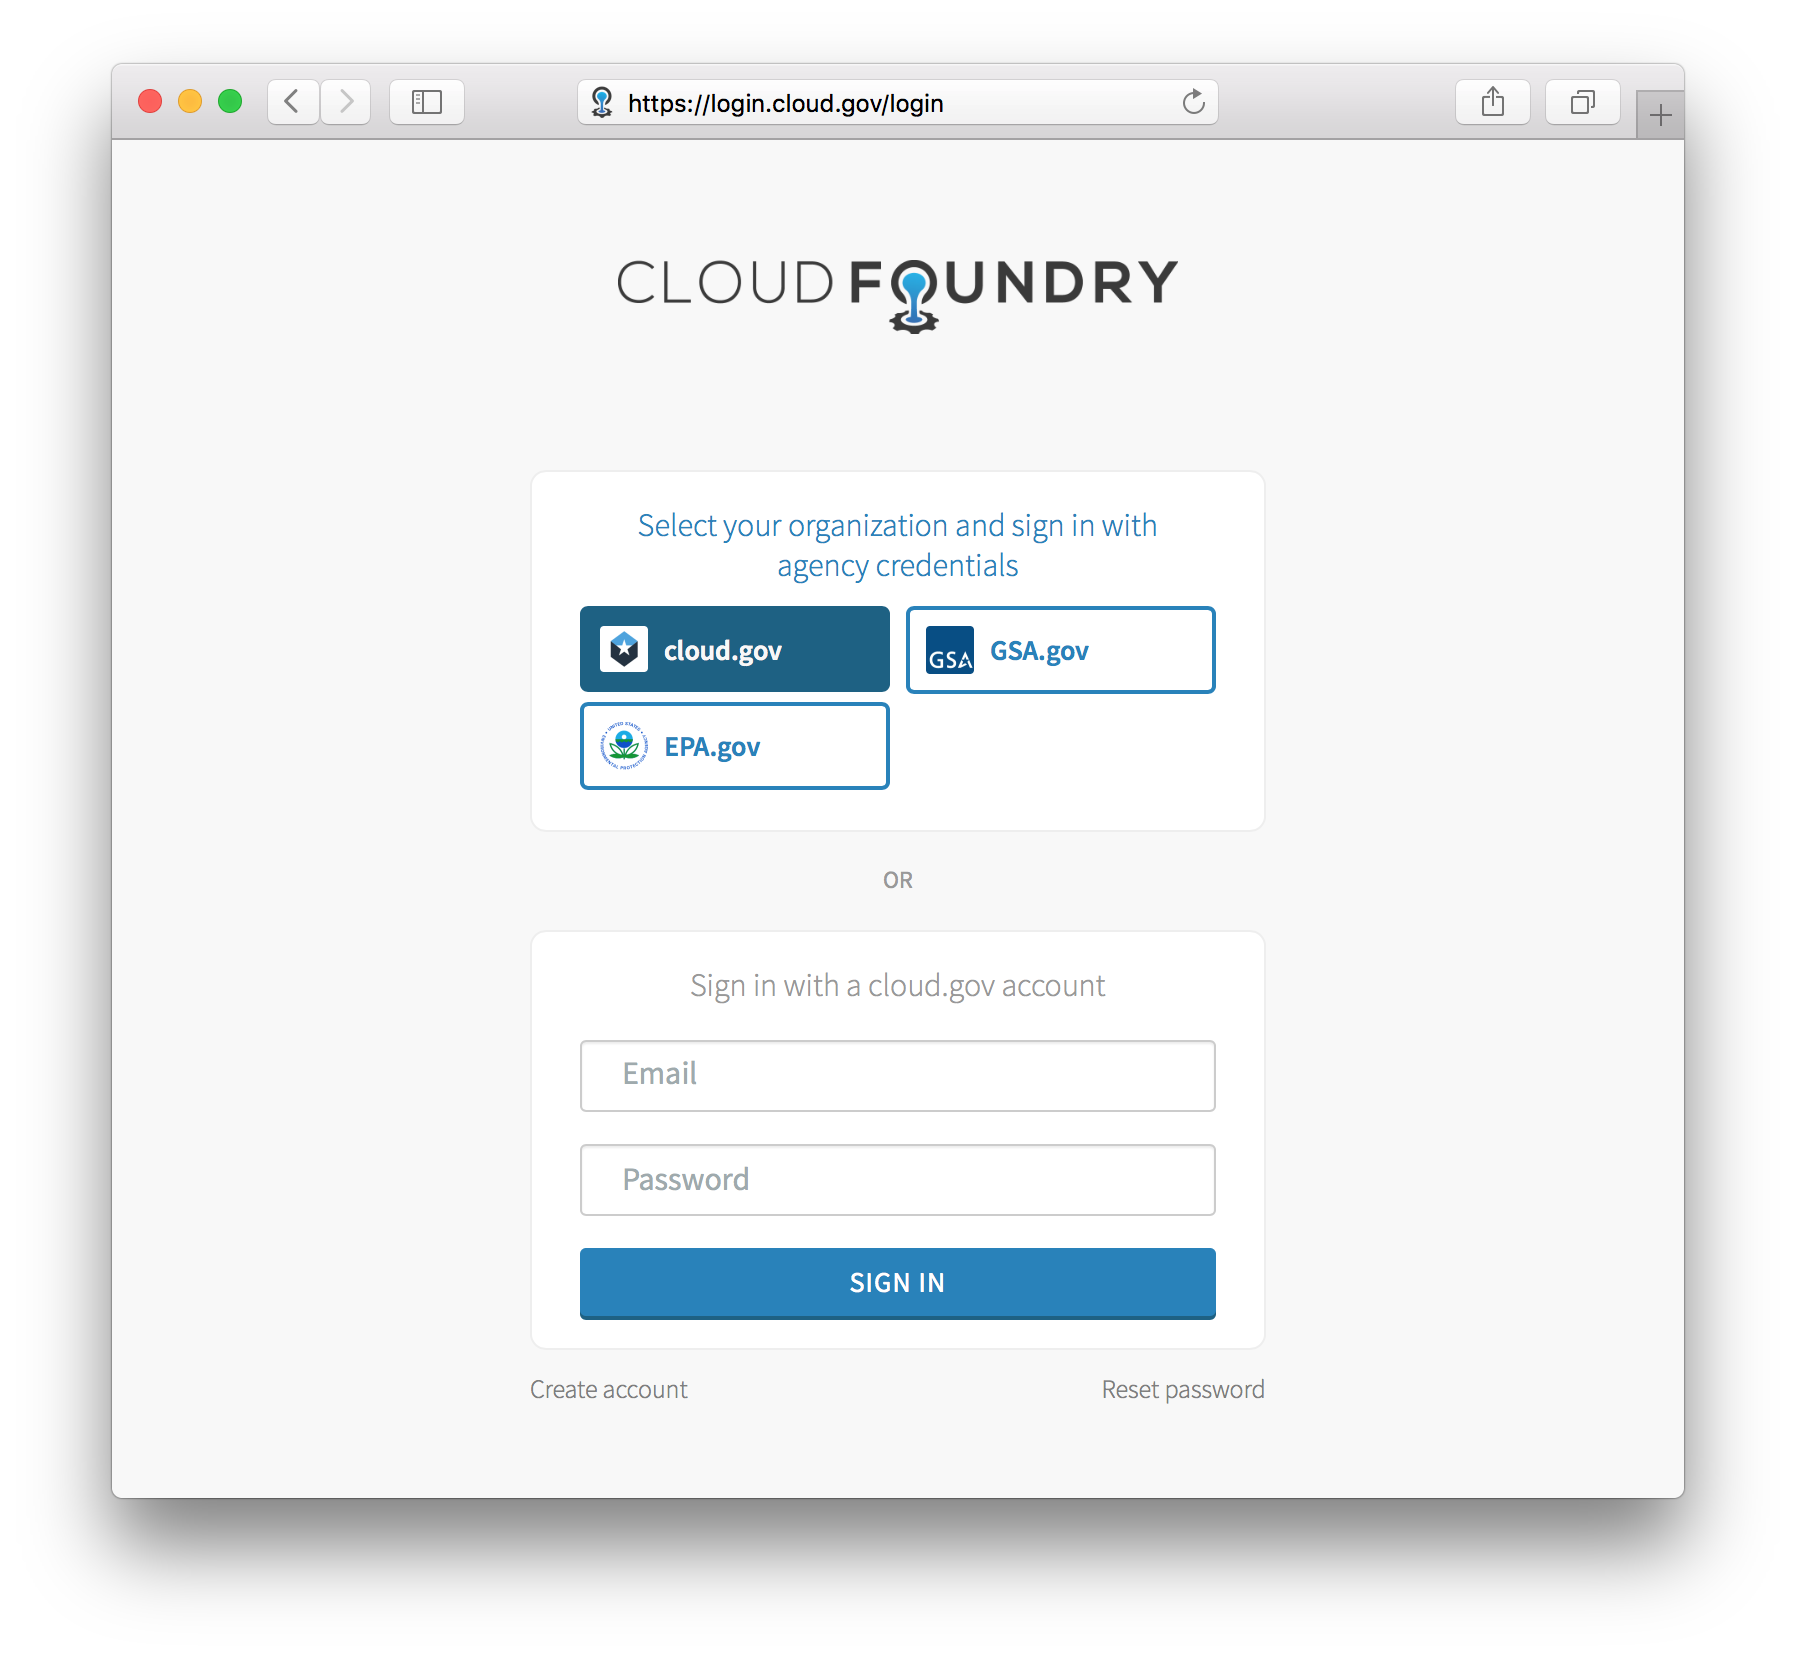
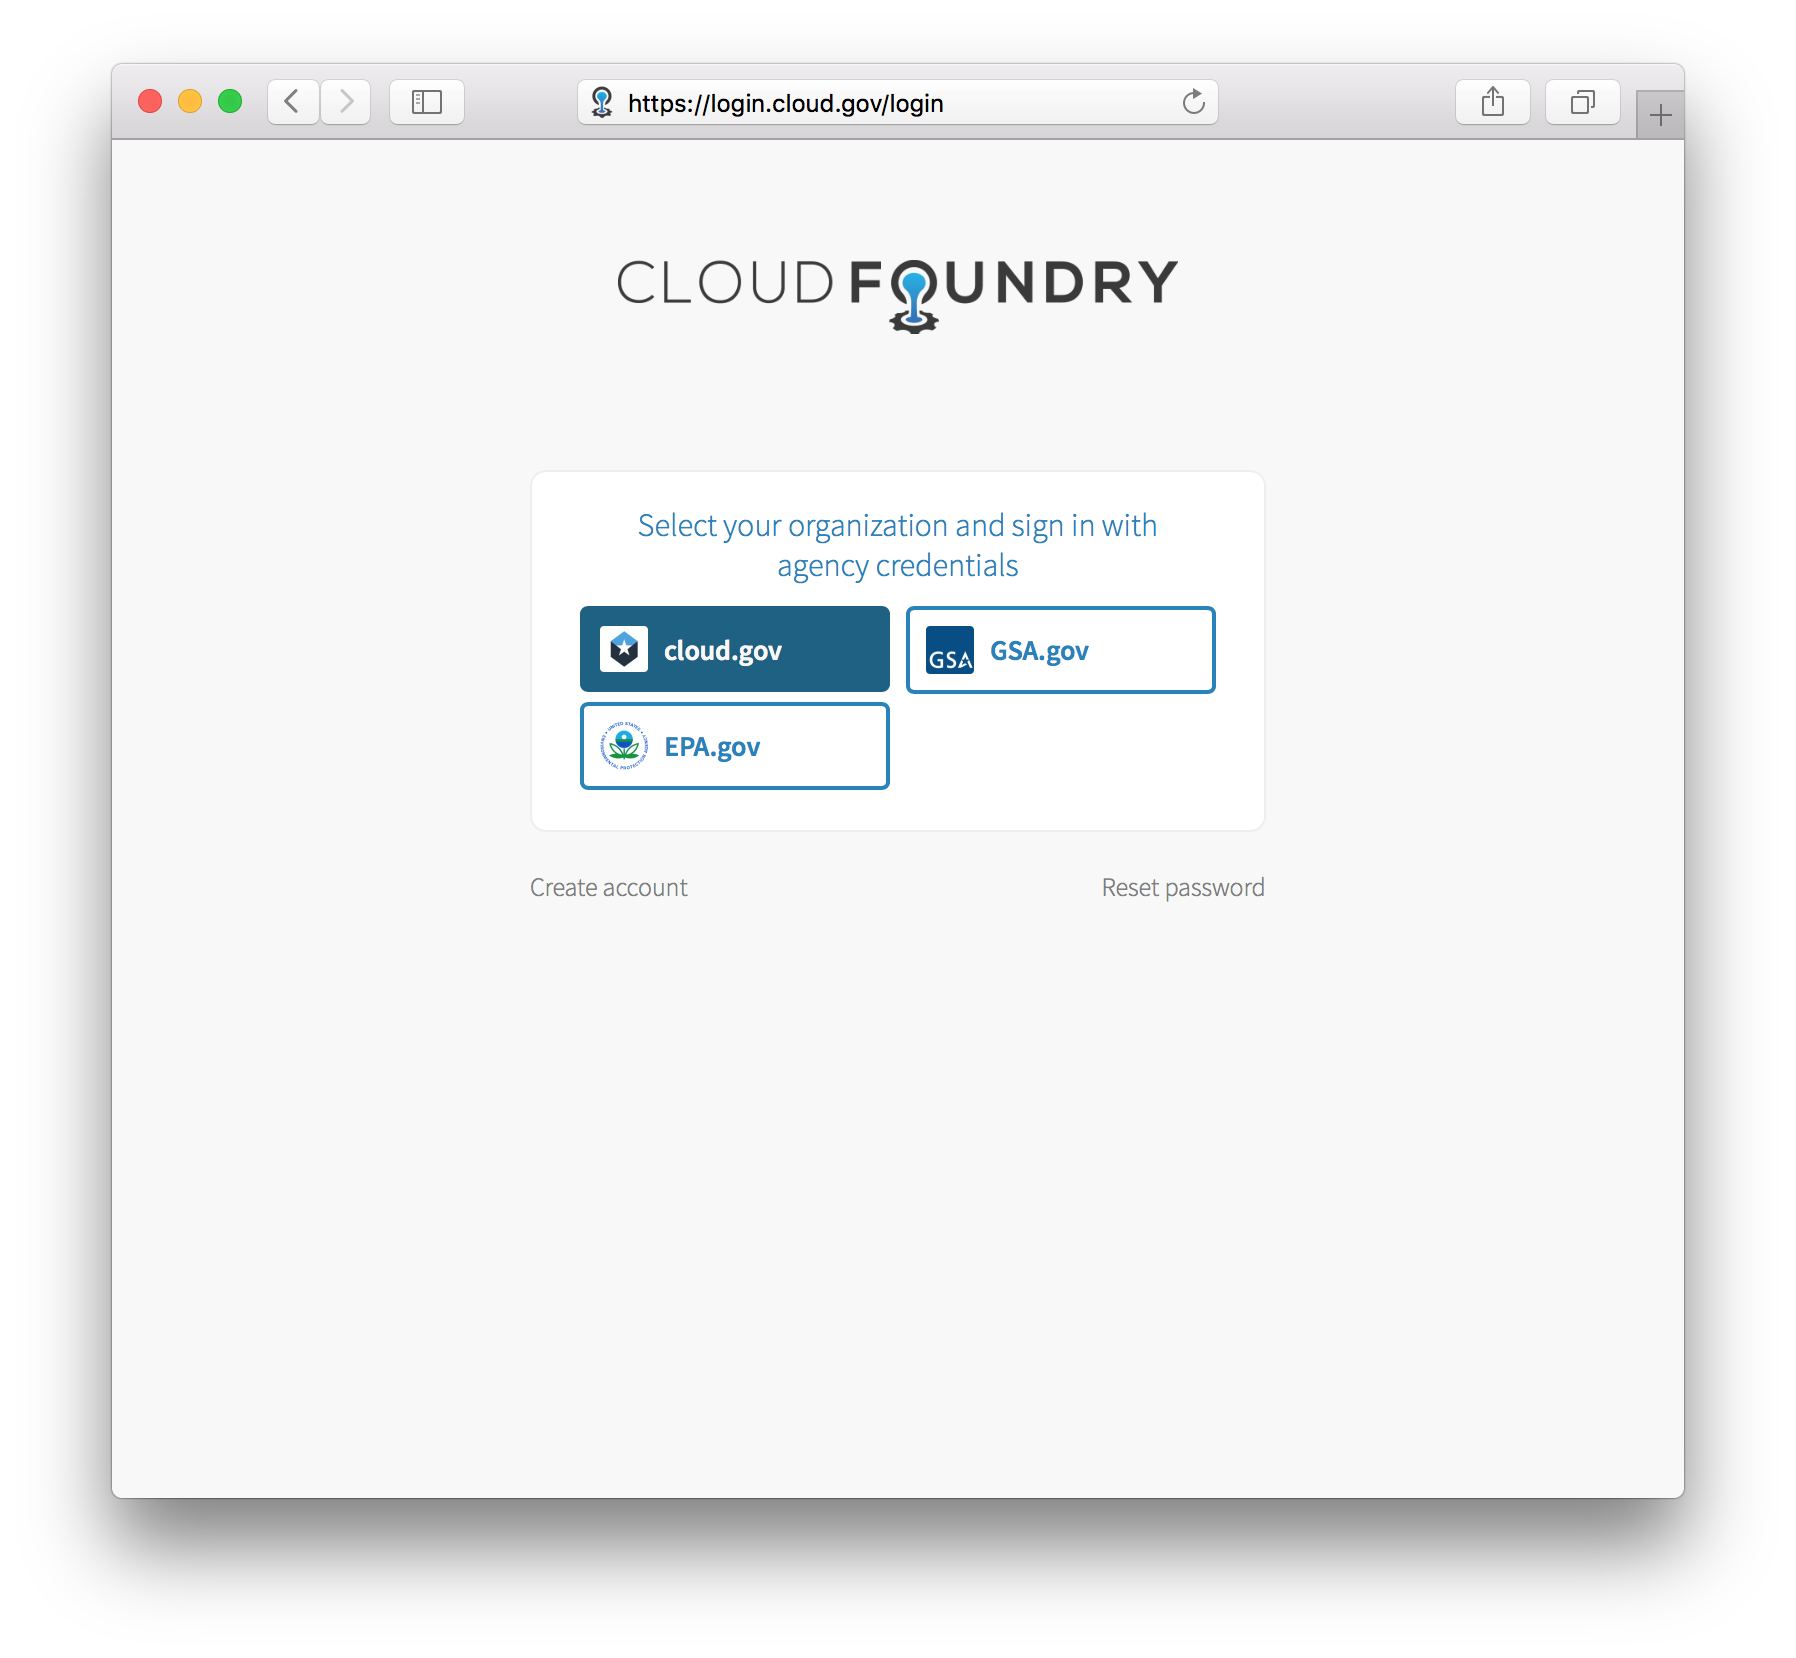
Update screenshot to remove login section

diff --git a/content/docs/apps/managing-teammates.md b/content/docs/apps/managing-teammates.md
@@ -23,9 +23,8 @@ authentication. This authentication still requires a password, but also enforces
 a TOTP token to be entered to complete the MFA process.
 
 This means that when teammates login to cloud.gov via their web browser, they
-will need to select the `cloud.gov` provider when they come to the login screen
-and **not the login / password fields found below the list of providers**. The
-following screenshot highlights the button that teammates invited to use
+will need to select the `cloud.gov` provider when they come to the login screen.
+The following screenshot highlights the button that teammates invited to use
 `cloud.gov` will need to use to login using MFA / TOTP authentication.
 
 ![cloud.gov provider button on login page highlighted in blue](/img/cloud-gov-idp-button.png "cloud.gov provider button to login page is highlighted in blue")
